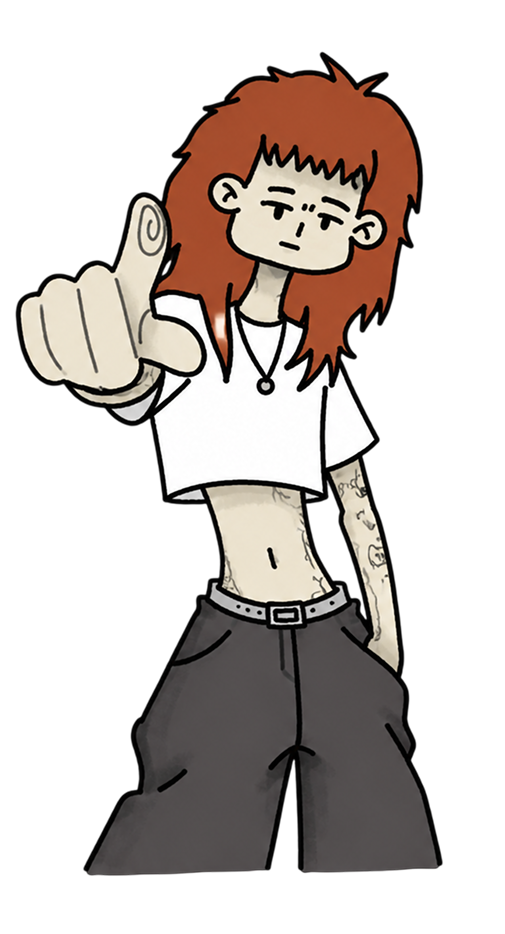
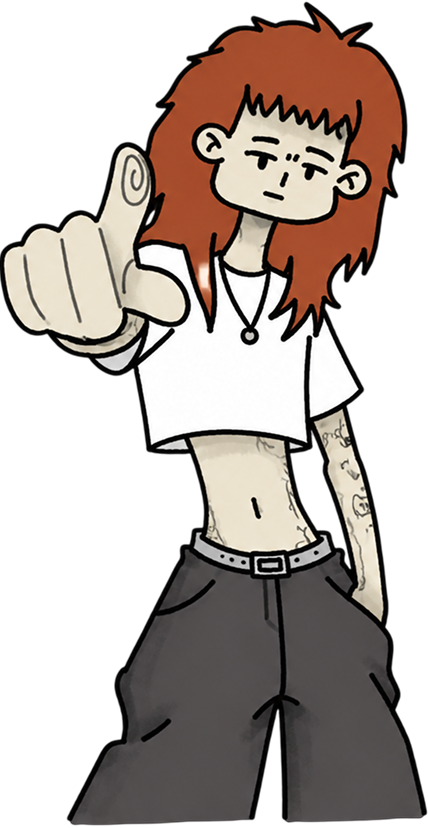
Updated images

diff --git a/src/Components/Links/Links.jsx b/src/Components/Links/Links.jsx
@@ -9,7 +9,7 @@ function Links(props) {
     return (
         <a className={className} href={href} target="_blank" style={{borderBottomColor: `var(${color})`}}>
             {children}
-            <svg width="70" height="60" viewBox="0 0 49 37" fill="none" xmlns="http://www.w3.org/2000/svg">
+            <svg width="100" height="74" viewBox="0 0 49 37" fill="none" xmlns="http://www.w3.org/2000/svg">
                 <path d="M47.7105 20.1777C48.6868 19.2014 48.6868 17.6185 47.7105
                             16.6421L31.8006 0.732245C30.8243 -0.244065 29.2414 -0.244066
                             28.265 0.732245C27.2887 1.70856 27.2887 3.29147 28.265 4.26778L42.4072
